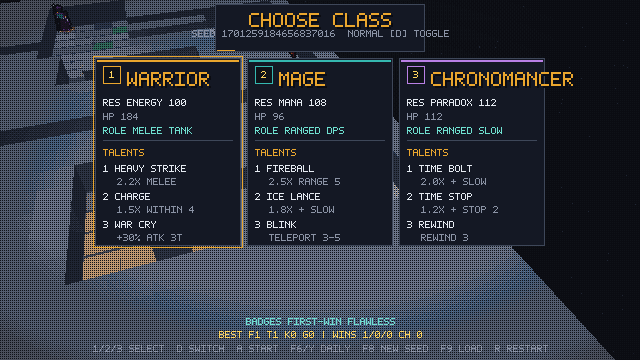
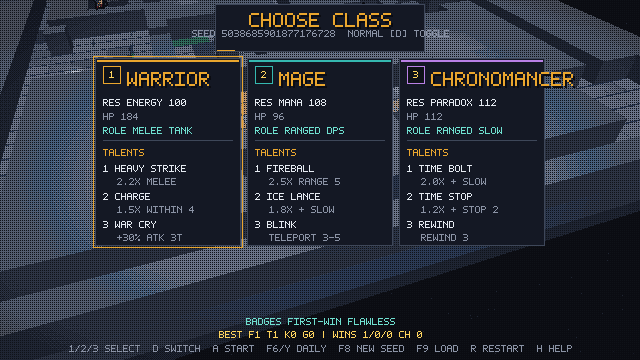
fix: menu help overlay

diff --git a/docs/DECK_CHECK.md b/docs/DECK_CHECK.md
@@ -68,7 +68,7 @@
 
 目标：在没有开发者键盘的情况下，用手柄走完主要流程，并回归最近修过的输入 bug。
 
-1. 启动到职业菜单：方向键切换，A 开始；确认整数 2×、无鼠标依赖。
+1. 启动到职业菜单：方向键切换，A 开始；H 打开控制说明，B 返回菜单；确认整数 2×、无鼠标依赖。
 2. 普通战斗：B 投弹，HUD 炸弹数 -1，不弹暂停；再按 B 不投弹时应无事发生。
 3. 瞄准：肩键选天赋，B 取消瞄准；确认不消耗回合。
 4. 暂停：Start 开，A 恢复；恢复后不应多走一回合/多攻击一次（回归）。
